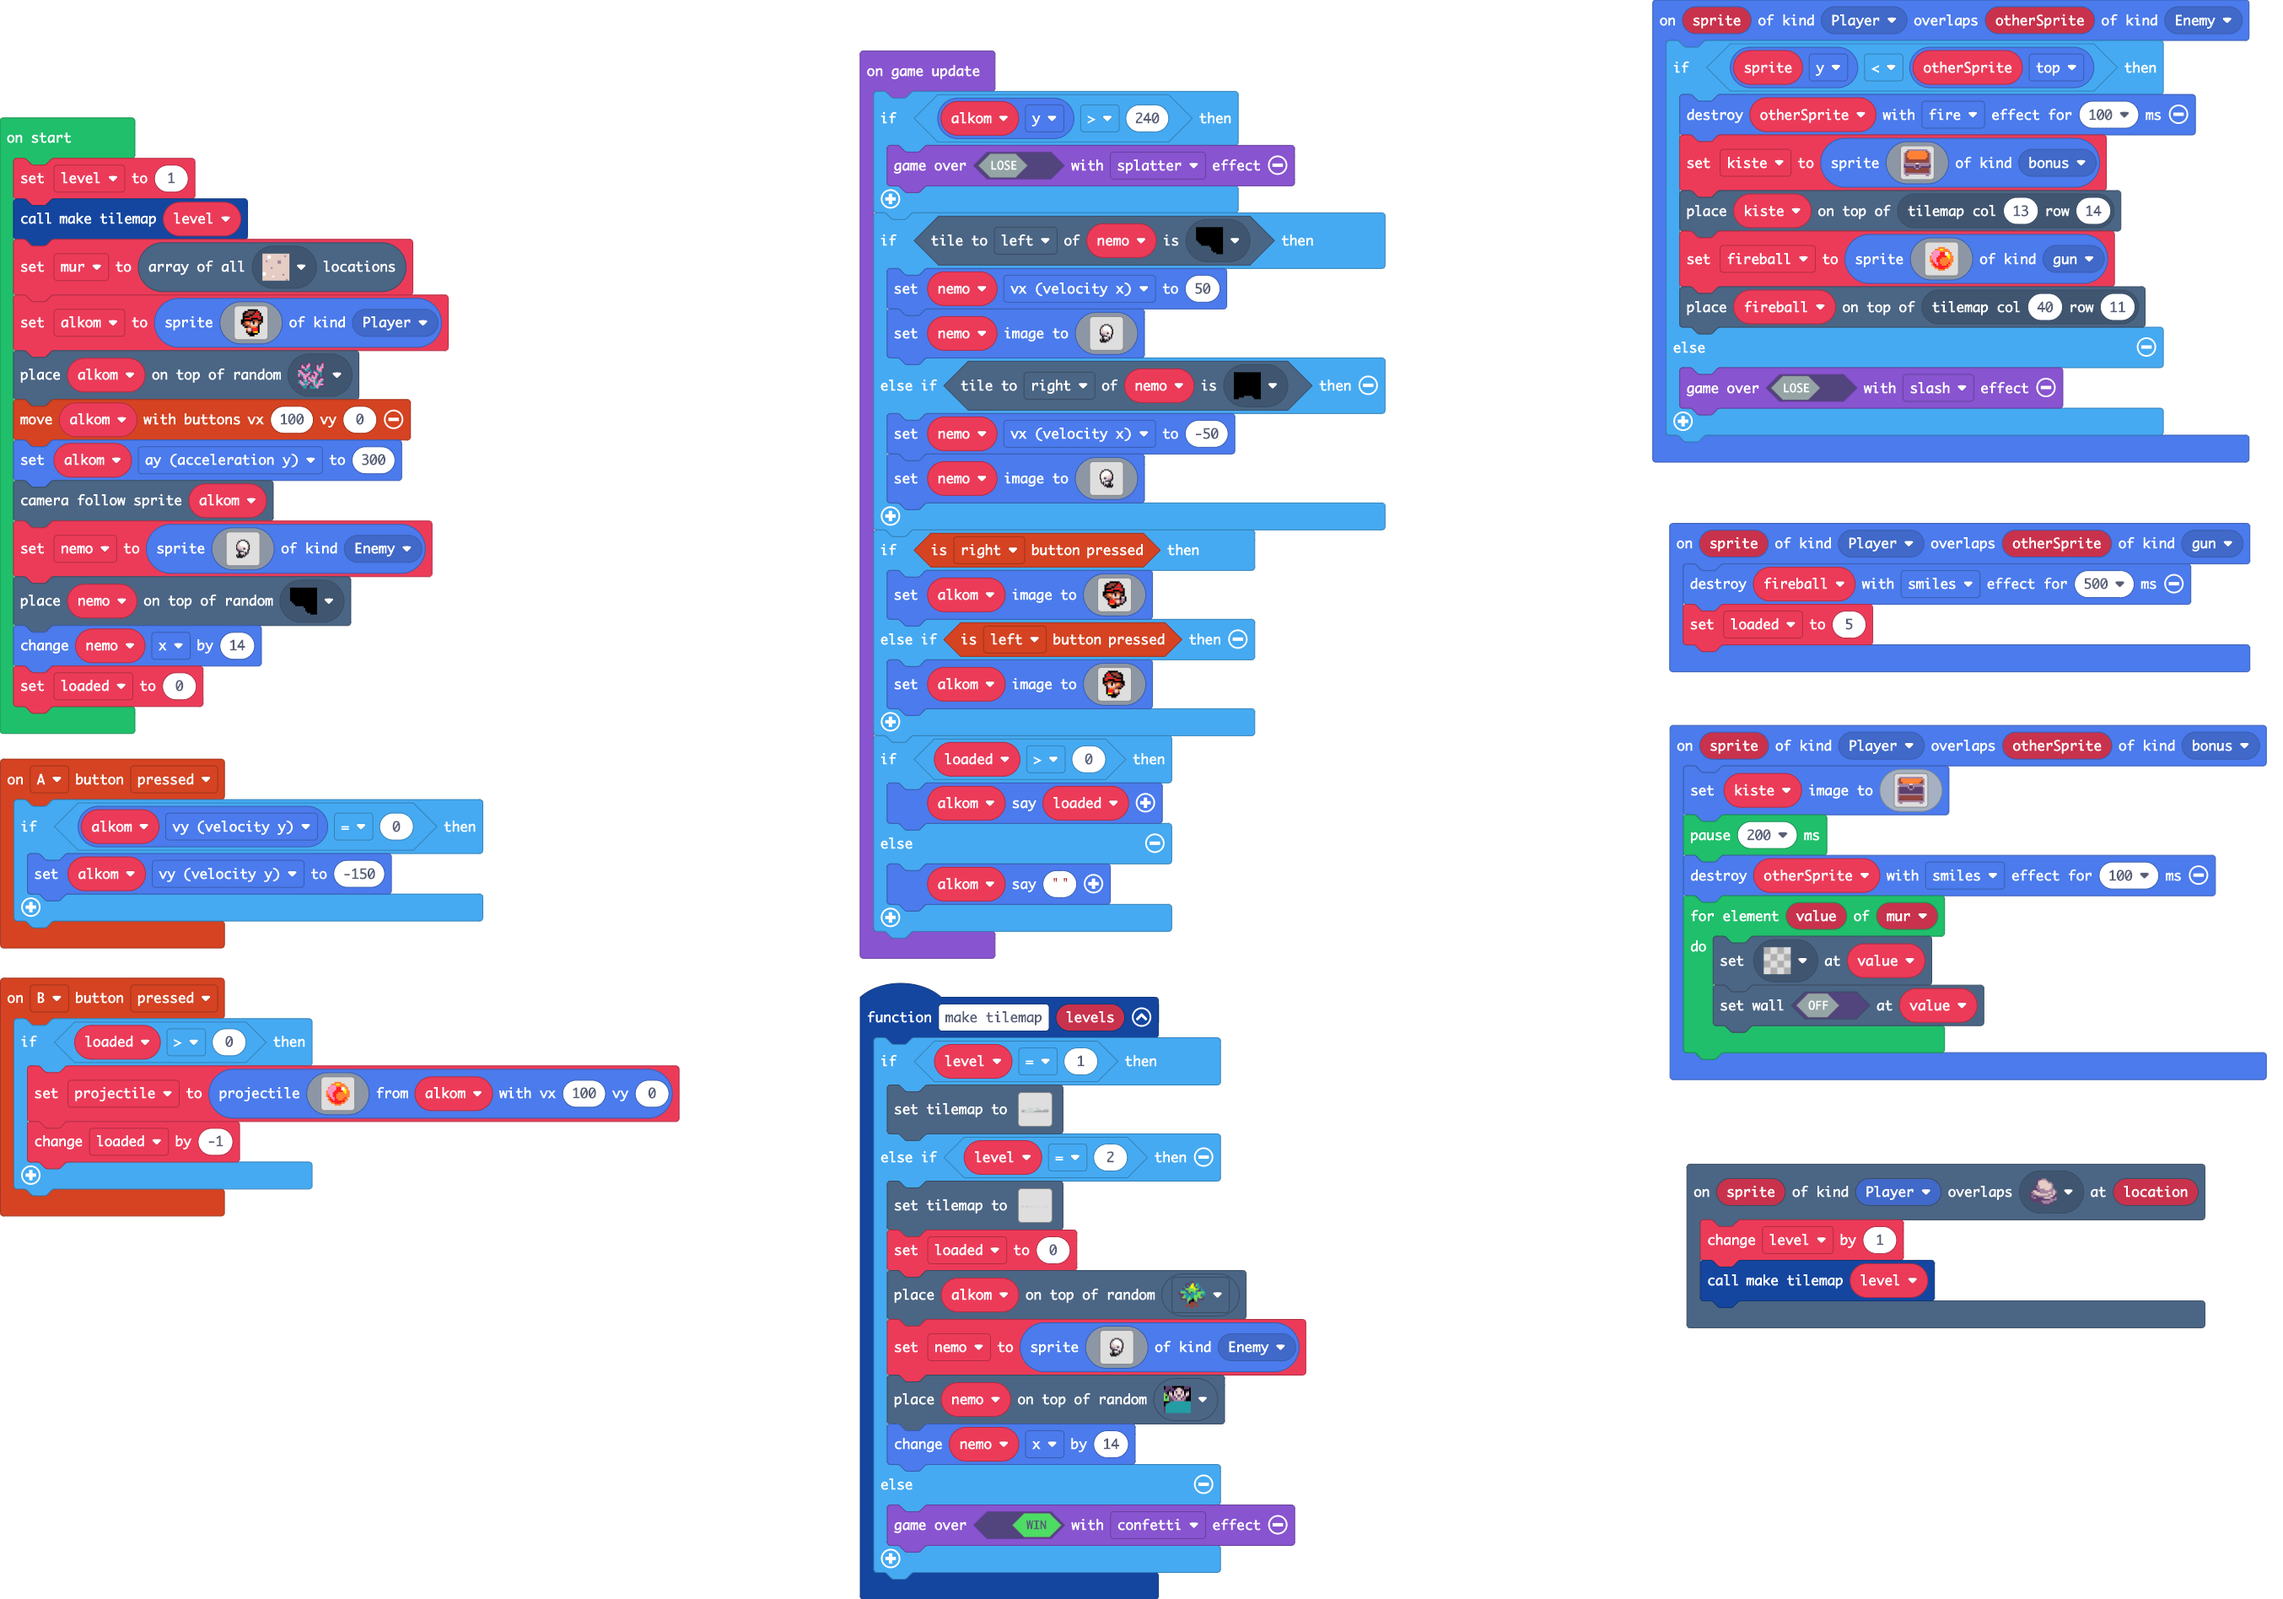
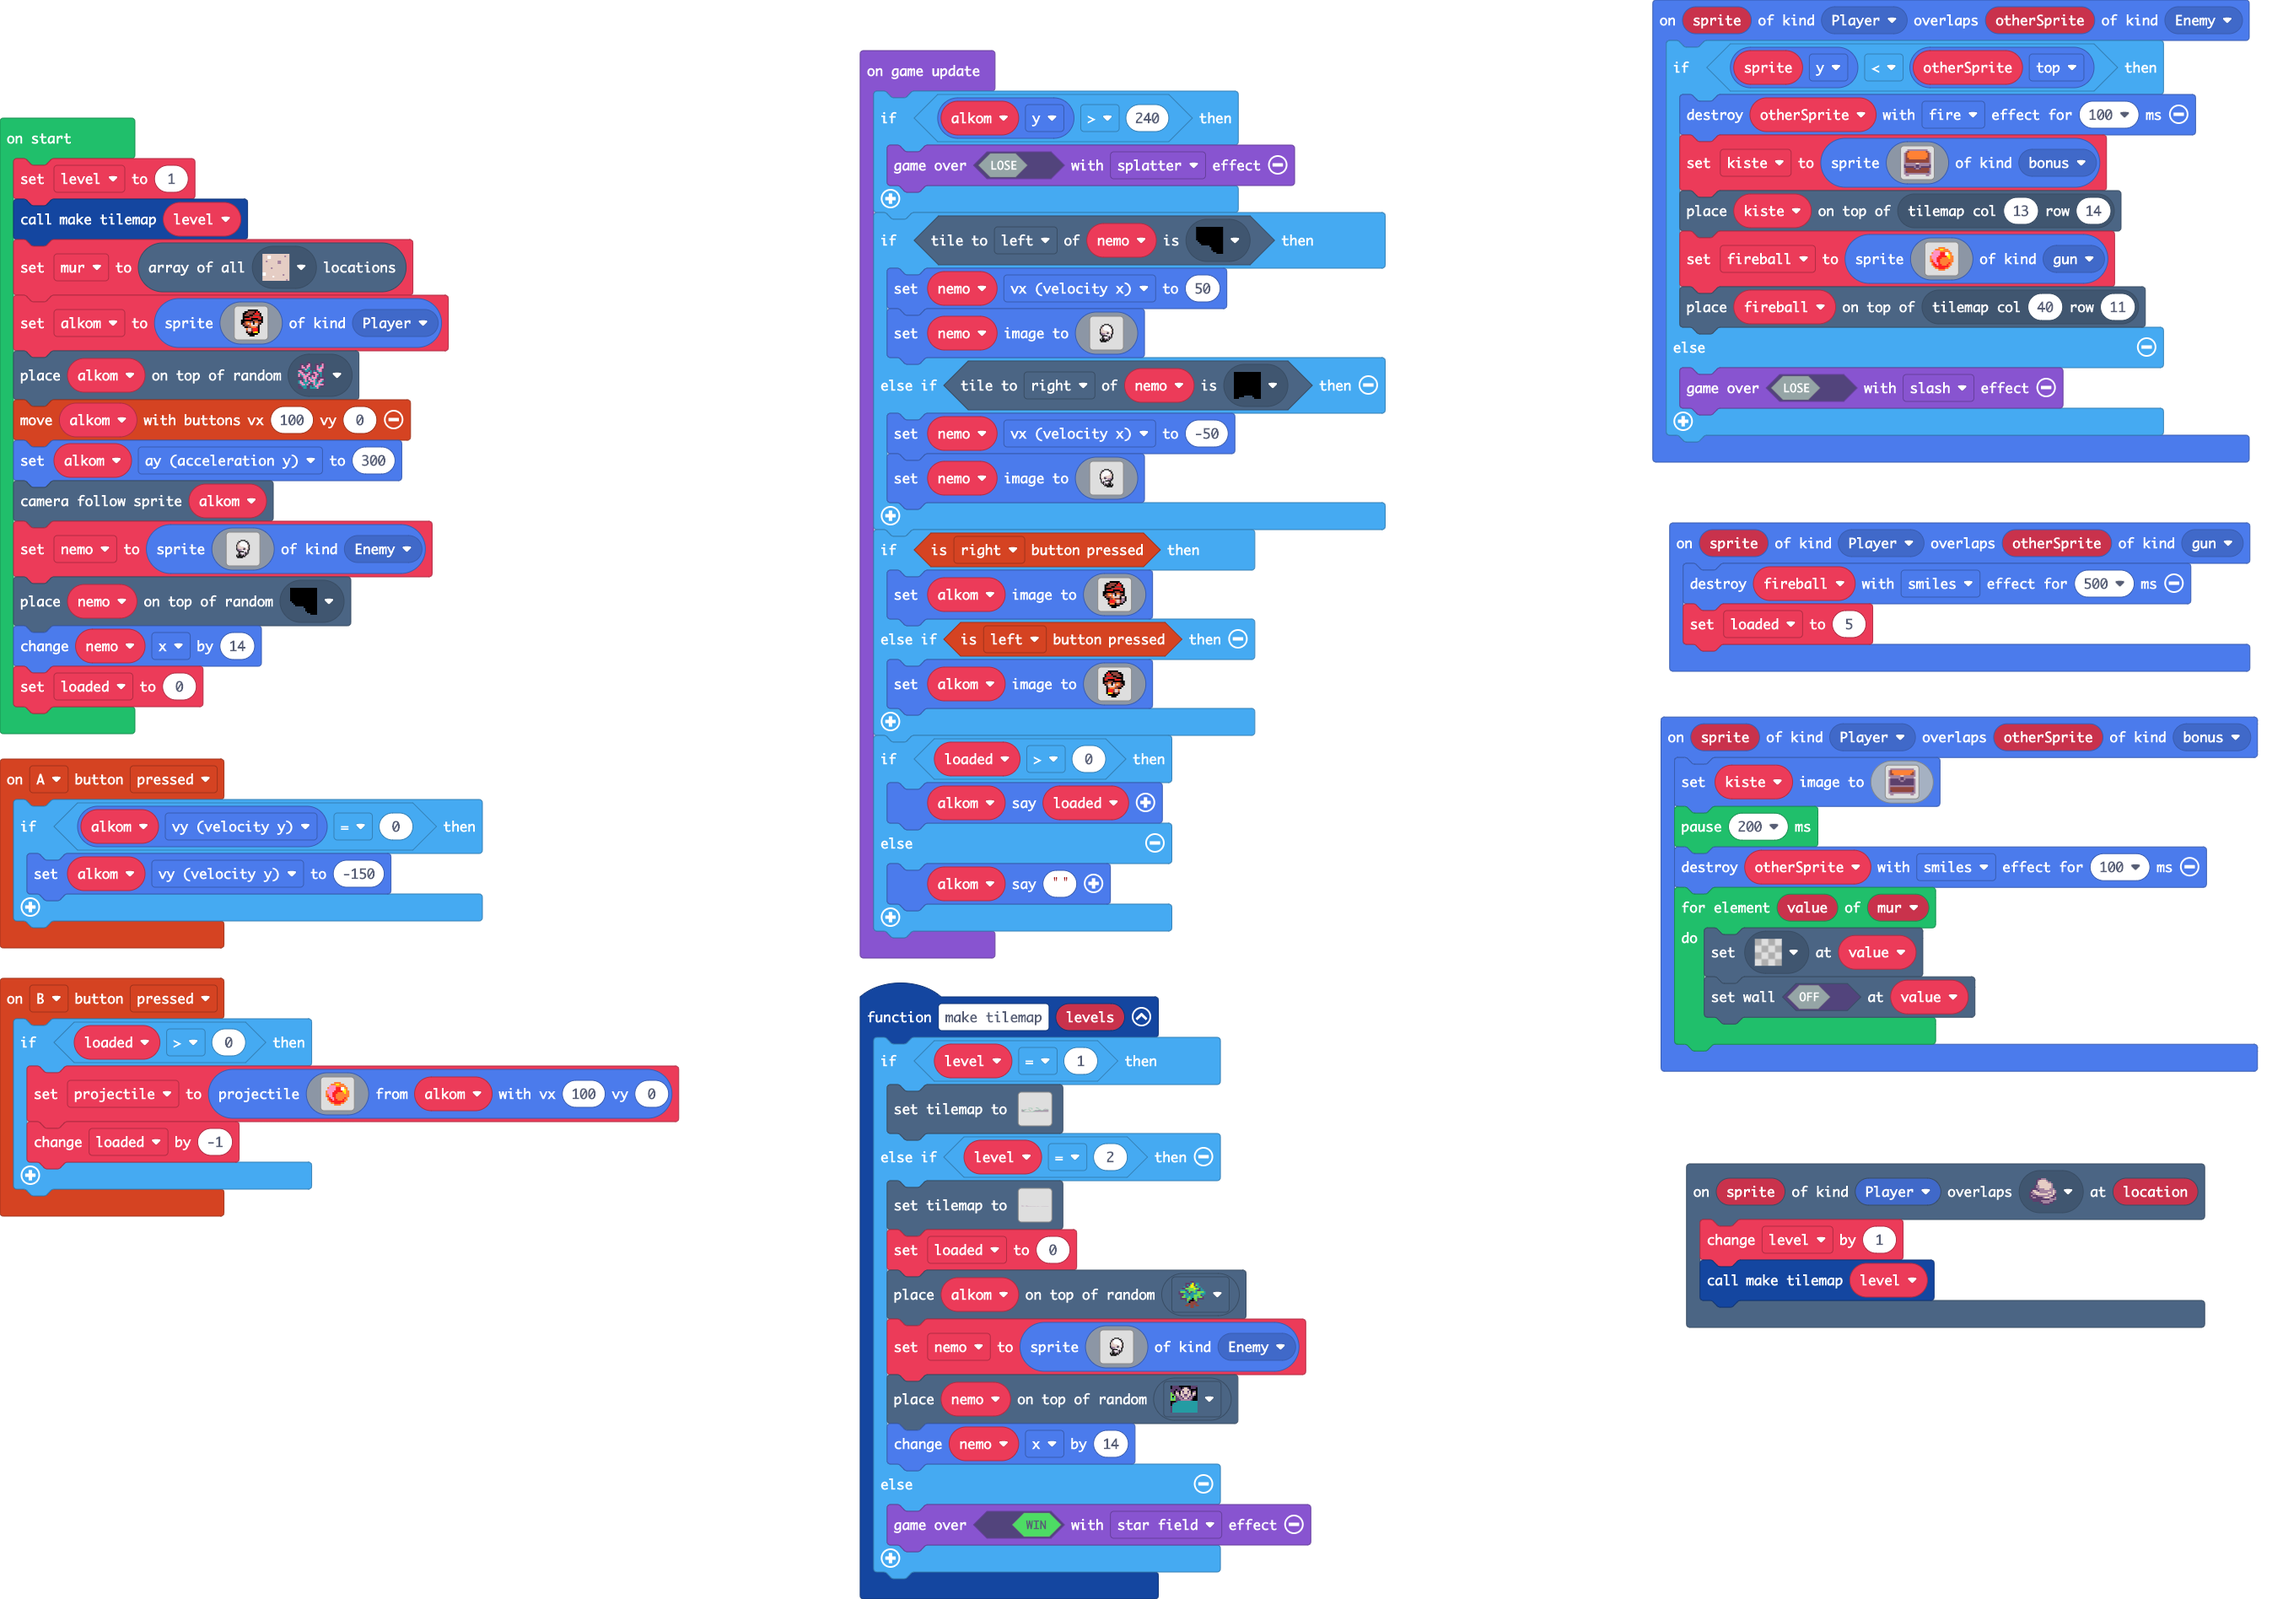
Update main.blocks, main.ts

diff --git a/main.ts b/main.ts
@@ -99,7 +99,7 @@ function make_tilemap (levels: number) {
         tiles.placeOnRandomTile(nemo, sprites.builtin.crowd4)
         nemo.x += 14
     } else {
-        game.over(true, effects.confetti)
+        game.over(true, effects.starField)
     }
 }
 sprites.onOverlap(SpriteKind.Player, SpriteKind.bonus, function (sprite, otherSprite) {
